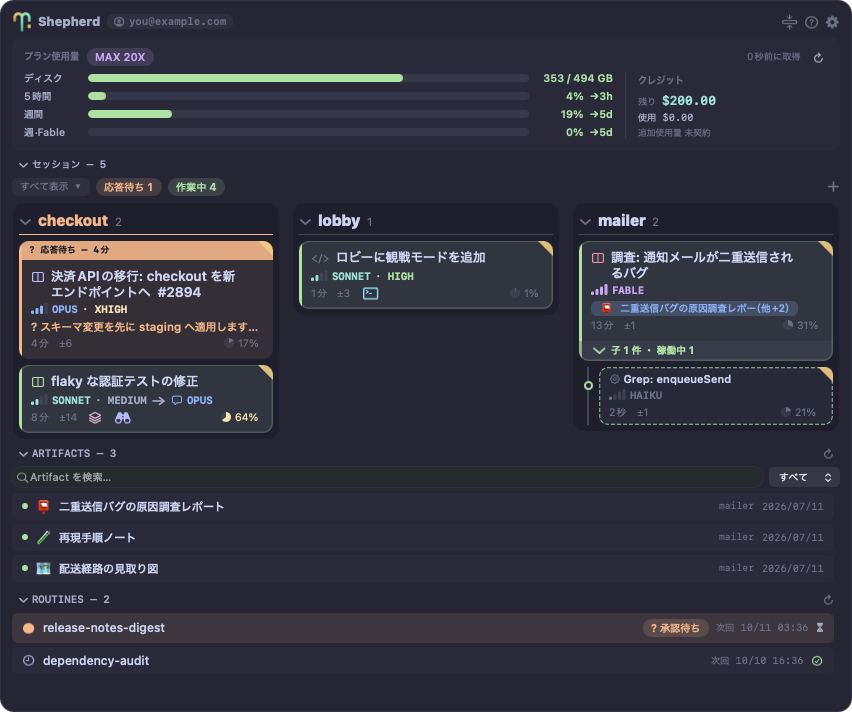
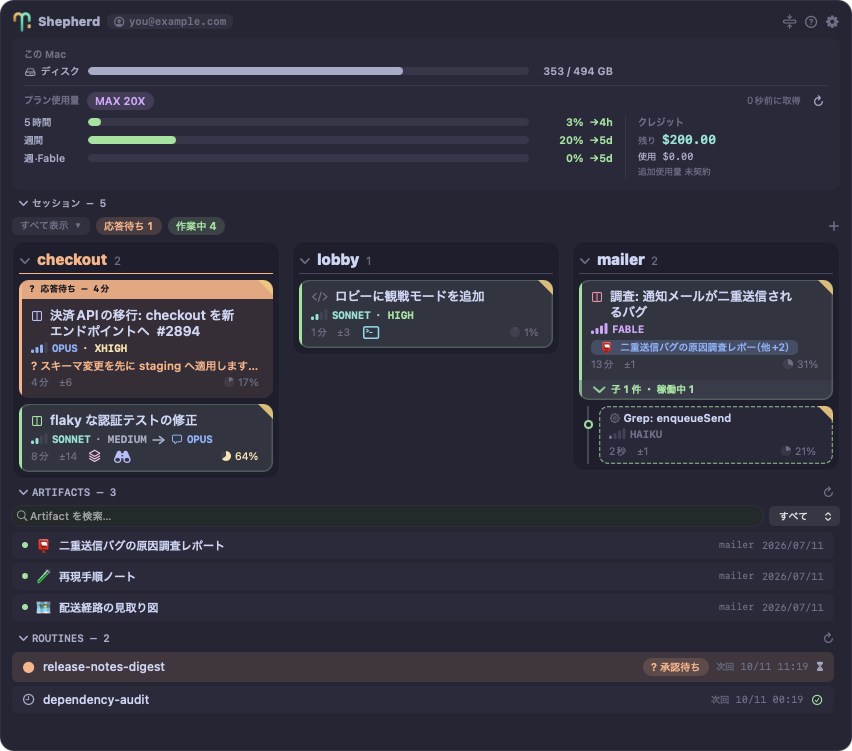
feat: split the dashboard into "This Mac" and plan-usage sections
The disk gauge sat in the same column as the plan limits and read as
one of them. The dashboard now opens with a "This Mac" section (heading
+ the disk row with an internaldrive glyph), a hairline, then the plan
usage section, which alone owns the fetched-at stamp, the refresh
button, stale dimming and the credit column. The disk bar is a quiet
neutral (subtext) below 80% instead of plan green, peach from 80%, red
from 90%. Its track aligns with the plan gauges' column at a high but
non-required priority, so the amount never truncates in the 1-column
preset. The minimized strip keeps the disk row (from 80%) and the
hairline but drops the heading. Docs screenshots re-shot.

Claude-Session: https://claude.ai/code/session_016EzgjT4c9mNvakjaotPHPf

diff --git a/docs/board.html b/docs/board.html
@@ -89,14 +89,14 @@
     <h2 lang="en">The header</h2>
     <h2 lang="ja">ヘッダー</h2>
     <ul lang="en">
-      <li><strong>Plan usage dashboard</strong> — your Claude plan's 5-hour and weekly windows (plus a model-scoped weekly bar when your plan has one), with time until each resets. A plan chip (e.g. <span class="chip-demo" style="background:rgba(203,166,247,.16);color:var(--mauve)">MAX 20X</span>) names the subscription, and a permanent credits column shows extra-usage spend — used / monthly limit / computed remainder (— until you enable extra usage). The fetched-at stamp and the ↻ button on the right refresh everything on demand; when a refresh fails the last good numbers stay up, dimmed, instead of vanishing. A <strong>disk</strong> bar above the usage windows shows the startup disk as “used / total” (e.g. <code>351 / 494 GB</code> — decimal units like Finder, TB above 1 TB). The bar fills by used % — computed from the same “available” figure Finder reports, purgeable space included — green, peach from 80%, red from 90%; hover for the % and free space. It's read locally, so it stays up even when the usage fetch fails, and the minimized strip shows it only from 80% up. When a weekly window passes 90% it's mirrored as an alert chip (threshold <a href="configuration.html">configurable</a>). While extra-usage credits are actively burning — plan limits exhausted and the spend counter moving — the credits zone glows amber with a "burning" mark, and an amber "on credits" chip appears in the header row.</li>
+      <li><strong>Plan usage dashboard</strong> — your Claude plan's 5-hour and weekly windows (plus a model-scoped weekly bar when your plan has one), with time until each resets. A plan chip (e.g. <span class="chip-demo" style="background:rgba(203,166,247,.16);color:var(--mauve)">MAX 20X</span>) names the subscription, and a permanent credits column shows extra-usage spend — used / monthly limit / computed remainder (— until you enable extra usage). The fetched-at stamp and the ↻ button on the right refresh everything on demand; when a refresh fails the last good numbers stay up, dimmed, instead of vanishing. Above the plan section, a separate <strong>This Mac</strong> section (split off by a hairline) holds the startup disk as “used / total” (e.g. <code>353 / 494 GB</code> — decimal units like Finder, TB above 1 TB) behind a drive icon. Its bar fills by used % — computed from the same “available” figure Finder reports, purgeable space included — in a quiet neutral, peach from 80%, red from 90%; hover for the % and free space. It's read locally, so it is never dimmed and stays up even when the usage fetch fails (the fetched-at stamp, ↻ and dimming belong to the plan section). The minimized strip shows it only from 80% up, without the section heading. When a weekly window passes 90% it's mirrored as an alert chip (threshold <a href="configuration.html">configurable</a>). While extra-usage credits are actively burning — plan limits exhausted and the spend counter moving — the credits zone glows amber with a "burning" mark, and an amber "on credits" chip appears in the header row.</li>
       <li><strong>Range filter</strong> — show everything, or only sessions active in the last 24 hours.</li>
       <li><strong>Count pills</strong> — <span class="chip-demo" style="background:rgba(250,179,135,.16);color:var(--peach)">needs input N</span> <span class="chip-demo" style="background:rgba(166,227,161,.16);color:var(--green)">working N</span> — the board's one-line summary.</li>
       <li><strong>Controls</strong> — minimize (the HUD collapses to a small strip), ＋ new session, ⚙ settings, ? legend.</li>
       <li><strong>Update badge</strong> — once a day Shepherd compares itself against the latest GitHub release; a teal <span class="chip-demo" style="background:rgba(148,226,213,.16);color:var(--teal)">update vX.Y.Z</span> chip appears when a newer one exists. Click it to open the release page, then update with <code>brew upgrade --cask shepherd</code>.</li>
     </ul>
     <ul lang="ja">
-      <li><strong>プラン使用量ダッシュボード</strong> — Claude プランの5時間枠と週間枠（プランにモデル別の週間バーがある場合はそれも）を、それぞれのリセットまでの時間とともに表示します。プランチップ（例: <span class="chip-demo" style="background:rgba(203,166,247,.16);color:var(--mauve)">MAX 20X</span>）が契約プランを示し、右のクレジット欄には追加使用量の 使用額 / 月間上限 / 残り が常設表示されます（追加使用量が無効の間は —）。右端の取得時刻と ↻ ボタンで任意のタイミングで全体を再取得でき、取得に失敗しても直前の値が薄くなって残ります（消えません）。使用量バーの上の<strong>ディスク</strong>バーは起動ディスクを「使用量 / 総量」で表示します（例: <code>351 / 494 GB</code>。Finder と同じ10進単位で、1 TB を超えると TB 表記）。バーは使用率で塗られ（Finder が表示する「空き」＝パージ可能領域を含む値で計算）、緑・80%から peach・90%から赤。ホバーで使用率と空き容量が出ます。ローカルで読むので使用量の取得が失敗しても表示され、最小化ストリップには80%以上のときだけ出ます。週間枠が90%を超えるとアラートチップにも反映されます（閾値は<a href="configuration.html">設定可能</a>）。プラン上限を使い切って追加クレジットが実際に消費されている間は、クレジット欄が琥珀色に明滅して「消費中」マークが付き、ヘッダー行にも琥珀の「クレジット消費中」チップが出ます。</li>
+      <li><strong>プラン使用量ダッシュボード</strong> — Claude プランの5時間枠と週間枠（プランにモデル別の週間バーがある場合はそれも）を、それぞれのリセットまでの時間とともに表示します。プランチップ（例: <span class="chip-demo" style="background:rgba(203,166,247,.16);color:var(--mauve)">MAX 20X</span>）が契約プランを示し、右のクレジット欄には追加使用量の 使用額 / 月間上限 / 残り が常設表示されます（追加使用量が無効の間は —）。右端の取得時刻と ↻ ボタンで任意のタイミングで全体を再取得でき、取得に失敗しても直前の値が薄くなって残ります（消えません）。プラン区画の上には細い区切り線で分けた別区画<strong>「この Mac」</strong>があり、ドライブのアイコン付きで起動ディスクを「使用量 / 総量」で表示します（例: <code>353 / 494 GB</code>。Finder と同じ10進単位で、1 TB を超えると TB 表記）。バーは使用率で塗られ（Finder が表示する「空き」＝パージ可能領域を含む値で計算）、平常時は控えめな中立色・80%から peach・90%から赤。ホバーで使用率と空き容量が出ます。ローカルで読むので減光されず、使用量の取得が失敗しても表示されます（取得時刻・↻・減光はプラン区画だけのもの）。最小化ストリップには80%以上のときだけ、区画見出しなしで出ます。週間枠が90%を超えるとアラートチップにも反映されます（閾値は<a href="configuration.html">設定可能</a>）。プラン上限を使い切って追加クレジットが実際に消費されている間は、クレジット欄が琥珀色に明滅して「消費中」マークが付き、ヘッダー行にも琥珀の「クレジット消費中」チップが出ます。</li>
       <li><strong>表示範囲フィルタ</strong> — すべて表示するか、直近24時間にアクティブだったセッションのみ表示するかを切り替えます。</li>
       <li><strong>件数ピル</strong> — <span class="chip-demo" style="background:rgba(250,179,135,.16);color:var(--peach)">応答待ち N</span> <span class="chip-demo" style="background:rgba(166,227,161,.16);color:var(--green)">作業中 N</span> — 盤面の状態を1行で要約します。</li>
       <li><strong>コントロール</strong> — 最小化（HUD が小さなストリップに折りたたまれます）、＋ 新規セッション、⚙ 設定、? 凡例。</li>

diff --git a/Sources/AppDelegate+Columns.swift b/Sources/AppDelegate+Columns.swift
@@ -670,7 +670,8 @@ extension AppDelegate {
 
     // One usage gauge row: label · track with a filled portion · percent + reset countdown.
     // Colored by the API's severity, falling back to the used-percent (green→peach→red).
-    func usageGauge(_ w: UsageWindow, color override: NSColor? = nil, text: String? = nil) -> NSView {
+    func usageGauge(_ w: UsageWindow, color override: NSColor? = nil, text: String? = nil,
+                    symbol: String? = nil) -> NSView {
         let color: NSColor = override ?? {
             switch w.severity {
             case "critical", "severe": return Cat.red
@@ -681,7 +682,8 @@ extension AppDelegate {
         let row = NSStackView()
         row.orientation = .horizontal; row.spacing = 6; row.alignment = .centerY
 
-        let name = makeLabel(w.label, size: 10.5, weight: .medium, color: Cat.subtext)
+        let name = symbol.map { symbolLabel($0, w.label, size: 10.5, weight: .medium, color: Cat.subtext) }
+            ?? makeLabel(w.label, size: 10.5, weight: .medium, color: Cat.subtext)
         name.setContentHuggingPriority(.required, for: .horizontal)
         name.widthAnchor.constraint(equalToConstant: 58).isActive = true
 
@@ -859,6 +861,45 @@ extension AppDelegate {
 
         let stale = usageError != nil && !(lastUsage?.windows.isEmpty ?? true)
 
+        // Two sections (2026-10-10, user decision — the disk sat among the plan limits and read as
+        // one of them): "This Mac" (the startup disk) on top, a hairline, then "plan usage" with
+        // its own fetched-at stamp, ↻, stale dimming and the credit column. The disk row is local
+        // and never dimmed. Text is the amount, "used / total" (diskUsageText; % in the hover);
+        // the bar fills by used % in diskGaugeColor's quiet neutral / peach / red. In the
+        // minimized strip only from 80% (the strip keeps what needs attention) and WITHOUT the
+        // "This Mac" heading — the drive glyph + label name the row, and a heading would cost the
+        // strip a second line for one gauge; the hairline still parts it from the plan gauges.
+        var diskRow: NSView?
+        if let d = diskSpace, let used = diskUsedFraction(total: d.total, available: d.available),
+           !compact || used >= 0.80 {
+            let gb = { (b: Int64) in ByteCountFormatter.string(fromByteCount: b, countStyle: .file) }
+            let row = usageGauge(UsageWindow(key: "disk", label: L("ディスク", "disk"), percent: used * 100,
+                                             resetsAt: nil, severity: "normal"),
+                                 color: diskGaugeColor(used),
+                                 text: diskUsageText(used: d.total - d.available, total: d.total),
+                                 symbol: "internaldrive")
+            let pct = Int((used * 100).rounded())
+            diskRow = withHoverTip(row, L(
+                "起動ディスク: 使用 \(gb(d.total - d.available)) / 全 \(gb(d.total))（\(pct)%）・空き \(gb(d.available))",
+                "startup disk: \(gb(d.total - d.available)) used of \(gb(d.total)) (\(pct)%) · \(gb(d.available)) free"))
+        }
+        if let diskRow {
+            if !compact {
+                let macTitle = makeLabel(L("この Mac", "This Mac"), size: 10, weight: .bold, color: Cat.overlay)
+                box.addArrangedSubview(macTitle)
+                box.setCustomSpacing(4, after: macTitle)
+            }
+            box.addArrangedSubview(diskRow)
+            let rule = NSView()
+            rule.wantsLayer = true
+            rule.layer?.backgroundColor = Cat.surface1.withAlphaComponent(0.55).cgColor
+            rule.translatesAutoresizingMaskIntoConstraints = false
+            rule.heightAnchor.constraint(equalToConstant: 1).isActive = true
+            box.addArrangedSubview(rule)
+            rule.widthAnchor.constraint(equalToConstant: innerWidth).isActive = true
+            box.setCustomSpacing(7, after: diskRow)
+        }
+
         let head = NSStackView()
         head.orientation = .horizontal; head.spacing = 7; head.alignment = .centerY
         let title = makeLabel(L("プラン使用量", "plan usage"), size: 10, weight: .bold, color: Cat.overlay)
@@ -909,32 +950,8 @@ extension AppDelegate {
         box.addArrangedSubview(head)
         head.widthAnchor.constraint(equalToConstant: innerWidth).isActive = true
 
-        // Startup disk (2026-10-10): the FIRST gauge row (user decision), in the same vocabulary —
-        // the bar is filled by used % and colored by diskGaugeColor, but its text is the amount,
-        // "used / total" (diskUsageText; the % is in the hover). Built OUTSIDE the usage branch
-        // and the stale dimming — it's local, so it shows (undimmed) whether or not the OAuth
-        // fetch worked. In the minimized strip only once it's worth a line (≥80%, peach): the
-        // strip keeps the numbers that need attention, and a healthy disk doesn't.
-        var diskRow: NSView?
-        if let d = diskSpace, let used = diskUsedFraction(total: d.total, available: d.available),
-           !compact || used >= 0.80 {
-            let gb = { (b: Int64) in ByteCountFormatter.string(fromByteCount: b, countStyle: .file) }
-            let row = usageGauge(UsageWindow(key: "disk", label: L("ディスク", "disk"), percent: used * 100,
-                                             resetsAt: nil, severity: "normal"),
-                                 color: diskGaugeColor(used),
-                                 text: diskUsageText(used: d.total - d.available, total: d.total))
-            let pct = Int((used * 100).rounded())
-            diskRow = withHoverTip(row, L(
-                "起動ディスク: 使用 \(gb(d.total - d.available)) / 全 \(gb(d.total))（\(pct)%）・空き \(gb(d.available))",
-                "startup disk: \(gb(d.total - d.available)) used of \(gb(d.total)) (\(pct)%) · \(gb(d.available)) free"))
-        }
-
         let gauges = NSStackView()
         gauges.orientation = .vertical; gauges.spacing = 5; gauges.alignment = .leading
-        if let diskRow {
-            gauges.addArrangedSubview(diskRow)
-            diskRow.widthAnchor.constraint(equalTo: gauges.widthAnchor).isActive = true
-        }
         let usage = lastUsage.flatMap { $0.windows.isEmpty ? nil : $0 }
         if let usage {
             // Order: session, weekly, then any model-scoped windows.
@@ -971,6 +988,16 @@ extension AppDelegate {
         }
         box.addArrangedSubview(content)
         content.widthAnchor.constraint(equalToConstant: innerWidth).isActive = true
+        // The disk row spans exactly the plan gauges' column, so every track ends at the same x
+        // whether or not the credit column is beside the plan gauges. Below required: in the
+        // 1-column preset that column is too narrow for "353 / 494 GB", and the amount must not
+        // truncate — the row then simply runs wider (its own section, so nothing sits beside it).
+        if let diskRow {
+            let align = diskRow.widthAnchor.constraint(equalTo: gauges.widthAnchor)
+            align.priority = .defaultHigh
+            align.isActive = true
+            diskRow.widthAnchor.constraint(lessThanOrEqualToConstant: innerWidth).isActive = true
+        }
         box.widthAnchor.constraint(equalToConstant: width - 20).isActive = true
 
         // Wrap in a faintly tinted card to set it apart from the agent rows.

diff --git a/Sources/Models.swift b/Sources/Models.swift
@@ -116,10 +116,12 @@ func diskUsedFraction(total: Int64, available: Int64) -> Double? {
     return min(1, max(0, Double(total - available) / Double(total)))
 }
 
-// Disk gauge color: the plan-usage gauges' palette, but at 80 / 90 rather than their 60 / 85 —
-// a disk sits at 60–75% for months, and a gauge that is always peach stops meaning anything.
+// Disk gauge color. Normally a quiet neutral (subtext — still clearly brighter than the track),
+// NOT the plan gauges' green: the disk sits in its own "This Mac" section and must not read as
+// one more plan limit (user decision, 2026-10-10). Peach from 80%, red from 90% — not the plan
+// gauges' 60 / 85: a disk sits at 60–75% for months, and a gauge always in warning means nothing.
 func diskGaugeColor(_ fraction: Double) -> NSColor {
-    fraction >= 0.90 ? Cat.red : fraction >= 0.80 ? Cat.peach : Cat.green
+    fraction >= 0.90 ? Cat.red : fraction >= 0.80 ? Cat.peach : Cat.subtext
 }
 
 // The leading symbol for a title that is a mid-call tool line ("⚙ <tool>: <what>" / "⚙ <tool>",

diff --git a/Tests/ModelsTests.swift b/Tests/ModelsTests.swift
@@ -87,7 +87,7 @@ func runModelsTests() {
         expectNil(diskUsedFraction(total: 0, available: 0), "no capacity → nil")
         expectEq(diskUsedFraction(total: 100, available: 150), 0, "available > total clamps to 0")
         expectEq(diskUsedFraction(total: 100, available: -5), 1, "negative available clamps to 1")
-        expect(diskGaugeColor(0.79) == Cat.green, "<80% green")
+        expect(diskGaugeColor(0.79) == Cat.subtext, "<80% a quiet neutral, not the plan gauges' green")
         expect(diskGaugeColor(0.80) == Cat.peach, "80% peach")
         expect(diskGaugeColor(0.90) == Cat.red, "90% red")
     }

diff --git a/CLAUDE.md b/CLAUDE.md
@@ -38,7 +38,7 @@ Shepherd はこのマシンで動く Claude Code セッション（zellij ペイ
 - **カードのクリック＝そのセッションを開く**（`openRow`）: zellij 行は `zellij attach`＋ペインフォーカス、background worker は **Ghostty 新窓で `claude attach <short-id>`**（終了記録は確認シートを挟んで再開）。開けない行（素のターミナル）は toolTip で説明するだけ。
 - **カード操作は右クリックメニュー**（`wireCardActions` のコンテキストメニュー）: 回答する（blocked時は先頭）／zellij・attach で開く／遠隔操作／範囲を撮影して送る／閉じる 等。旧ホバートレイは廃止済みで `RowView.tray` はどこからも populate されない（死にコード。触るなら削除してよい）。
 - **ファミリーストリップ**（親カード最下部20px）: `⌄/› 子 N 件・稼働中 M`。折りたたみ中は子のステータスドット＋要注目の子の一言（blocked の `? 質問` 優先）も同居し、ホバーで覗き見ポップオーバー（`showFamilyPeek`）。覗き見は畳んでいても展開していてもストリップのホバーで出る。末尾には**終了した teammate の完了報告**（idle_notification の `result`・親行の `subagents` から `recentTeammateReports` で拾う — 終了した teammate はカードを持たないため）を「完了報告」として並べる: 報告から `teammateReportWindow`（30分）以内のもの・**報告自身の通知時刻**（`SubagentRecord.resultAt`。jsonl mtime ではない）の新しい順・最大5件。子カードが1枚も無くても、この窓内の報告があればストリップを出して「✓ 完了報告 N 件」と表示する（クリックは無効・ホバーで覗き見のみ）。子がいるときのストリップの見た目は従来どおり。クリックはストリップ全面でトグル — `RowView.hitTest` は NSButton 系しかクリックを通さないので**透明 `HoverButton` を全面に重ねる**構成。
-- **ダッシュボードのディスクゲージ**: ゲージ群の**先頭行**（使用量ゲージより上・compact でも先頭）に「ディスク」— 起動ディスク（`/`）。**テキストは「使用量 / 総量」**（純関数 `diskUsageText`: 10進単位・総量 1 TB 未満は整数 GB「351 / 494 GB」、以上は小数1桁 TB「1.2 / 2.0 TB」。`usageGauge(_:color:text:)` の text で差し替え）で、%はホバー側。バーの塗りと色は使用率。値は `URL(fileURLWithPath: "/").resourceValues` の `volumeTotalCapacity`（コンテナ容量）と `volumeAvailableCapacityForImportantUsage`（Finder の「空き」＝パージ可能領域込み）から純関数 `diskUsedFraction` で計算（`df` の Data 行の % は分母が Data ボリュームの used+avail で他の APFS ボリュームを含まないぶん低く出る）。単位は Finder と同じ10進 GB（`ByteCountFormatter` `.file`）。取得は refresh() の background hop で毎回（1回約8ms・ガード不要）、`diskSpace`（main.swift）に保持し失敗時は前回値。描画は `usageGauge(_:color:)` の見た目を流用し色だけ `diskGaugeColor`（80%未満緑 / 80% peach / 90% 赤 — 使用量ゲージの 60/85 だと常時 peach になり意味を失うため）。**usage 分岐と stale 減光の外**に置くので OAuth 取得が失敗・未取得でも減光せず出る（stale 減光は使用量ゲージ行とクレジット列に個別に掛ける）。ホバーで「使用 X / 全 Y（N%）・空き Z」の係留ポップオーバー。
+- **ダッシュボードのディスクゲージ**: ダッシュボードは**2区画**（ユーザー決定 2026-10-10 — ディスクがプラン制限と同じ並びにあり同じ概念に見えたため）: 先頭の「この Mac」区画（見出し＋ディスク1行）→ 細い区切り線 → 従来の「プラン使用量」区画（見出し・取得スタンプ・↻・stale 減光・クレジット列はこの区画だけに属する）。ディスク行は `internaldrive` アイコン付きで、トラック幅はプラン側ゲージ列に揃える（`defaultHigh` 優先度 — 1列プリセットでは列が細すぎるので文字を優先して行が広がる）。compact（最小化）では見出しを省き、区切り線だけ残す（1ゲージのために見出し行を足さない・アイコン＋ラベルで自己説明的）。起動ディスク（`/`）。**テキストは「使用量 / 総量」**（純関数 `diskUsageText`: 10進単位・総量 1 TB 未満は整数 GB「351 / 494 GB」、以上は小数1桁 TB「1.2 / 2.0 TB」。`usageGauge(_:color:text:)` の text で差し替え）で、%はホバー側。バーの塗りと色は使用率。値は `URL(fileURLWithPath: "/").resourceValues` の `volumeTotalCapacity`（コンテナ容量）と `volumeAvailableCapacityForImportantUsage`（Finder の「空き」＝パージ可能領域込み）から純関数 `diskUsedFraction` で計算（`df` の Data 行の % は分母が Data ボリュームの used+avail で他の APFS ボリュームを含まないぶん低く出る）。単位は Finder と同じ10進 GB（`ByteCountFormatter` `.file`）。取得は refresh() の background hop で毎回（1回約8ms・ガード不要）、`diskSpace`（main.swift）に保持し失敗時は前回値。描画は `usageGauge(_:color:text:symbol:)` の見た目を流用し色だけ `diskGaugeColor`（80%未満は控えめな中立色 `Cat.subtext` — プラン系の緑だと「プラン制限の一つ」に見えるため / 80% peach / 90% 赤 — 使用量ゲージの 60/85 だと常時 peach になり意味を失うため）。**usage 分岐と stale 減光の外**に置くので OAuth 取得が失敗・未取得でも減光せず出る（stale 減光は使用量ゲージ行とクレジット列に個別に掛ける）。ホバーで「使用 X / 全 Y（N%）・空き Z」の係留ポップオーバー。
 - **HUDサイズモード**: ⚙メニュー「HUD サイズ」で `auto`（内容追従）/ 小=1列 / 中=2列 / 大=3列（固定サイズ・高さは 520/640/760 をディスプレイ高でクランプ）/ `fullDisplay`（載っているディスプレイの visibleFrame 全面）を切り替え（`hudSizeMode` に永続化）。`stack` は常に `DragScrollView`（縦スクロールのみ・documentView は `FlippedView` で上詰め・幅は clip 幅に固定＝横スクロール構造的に不可）内に住み、auto ではパネルが内容にフィットするためスクロールは発生しない。固定系の列数は `effectiveColumns`（プリセット列数 / fullDisplay は `hudFitColumns` で画面幅から算出）が単一の真実で、`columnsView`・`applyManualDrop`・`boardWidth` すべてがこれを参照。ヘッダー/ダッシュボード/ヒント行の幅は `boardSpanWidth`（固定系はパネル内寸）。最小化は固定サイズより優先（小さいストリップに縮む）。**最小化ストリップの中身は「ブランドバー＋compact ダッシュボード＋ステータス行」**: ダッシュボードは `usageDashboardView(width:compact:)` の compact でゲージのみ（クレジット列と仕切りを省略・ディスクゲージは80%以上のときだけ — ゲージは縦積みなので幅ではなく高さ1行のコストで、健全なディスクは注意を要する数字ではないため・幅は必ずストリップ内寸 `contentWidth-24` — wide 幅のまま渡すとクリップされてゲージが見切れる）、ステータス行（件数ピル＋quota/クレジットチップ）は最小化でも返す（24hフィルタチップと＋だけ省略）。純ロジック（`hudPreset`/`hudPanelWidth`/`hudFitColumns`）は Models.swift・テスト済み。
 - **コンテキスト%**: メタ行右端の小さなパイ＋%（60%未満はグレーでカードに溶け、60%で黄・85%で赤）。パイへのホバーで残量ヒント（`HoverView`）。
 - **盤面3セクション + Artifact シェルフ**（`Sources/AppDelegate+Shelf.swift` / `Sources/ArtifactIndex.swift`・2026-07-17 採用）: 盤面は「⌄ セッション — N」「⌄ ARTIFACTS — N」「⌄ ROUTINES — N」の折りたたみバー3本に分割（`sessionsSectionBar` / `artifactsSectionViews` / `routinesSectionViews`・状態は defaults `sessionsCollapsed` / `artifactsBarCollapsed` / `routinesBarCollapsed`。バー自体を作る `sectionRow` は3本の共通部品）。セッションバーは畳むと状態サマリ（応答待ち/作業中ピル＋A9クォータ警告チップ）がバー上に移る。ARTIFACTS 枠がシェルフの唯一の面（初版のヘッダー棚ボタン＋ポップオーバーはユーザー判断で撤去）: 検索フィールド＋repo 簡易フィルター（ポップアップ: すべて/各repo/帰属不明）＋フラット一覧（repo タグ・更新日 yyyy/MM/dd・ピン留め=右クリック「上位に固定」・defaults `artifactPins`・並びは純関数 `shelfListOrder` テスト済み・行クリック=ブラウザで開く・右クリック=開く/URLコピー/固定）。データは二源マージの永続インデックス — 源A=frames API（下記データ源）・源B=transcript 増分走査（`artifactPublishesFromSlice` の tool_use/tool_result ペアリング。**ペア持ち越し carry を scan state に永続化** — publish が走査境界を跨ぐとペアが組めず取りこぼすため）。マージ規則: title/updatedAt/softDeleted は API 勝ち、favicon/repoName は transcript 勝ち（favicon は API が穴埋め）。インデックスは `~/Library/Application Support/Shepherd/artifact-index.json`（追記型・softDeleted は減光表示で隠さない）。**検索は in-place 再描画**（`renderArtifactList` — rebuild すると入力中のフィールドが作り直されてフォーカスが落ちるため）で、rebuild ガードは「最終キー入力から2秒」の時間式（`lastArtifactTypeAt` — currentEditor ベースはフォーカスが残る限り盤面更新が無期限に止まる）。取得はセクションが開いている間だけ refresh() 便乗（API 15分・走査5分ガード・↻で強制・stale-while-error）。fixture モード（`SHEPHERD_PROJECTS_DIR` あり）では API を叩かない（実データの顧客名が docs スクショに写る事故防止）＋インデックスも scratch へ。（「更新セッション起動」導線も実装後にユーザー判断で撤去 — claude を立ち上げて URL を貼るだけの導線に価値がなかった）**リデプロイパルス**: 増分スキャンの delta で既知 URL への再 publish を検知（`artifactPulseAt`）→カードの Artifact バッジが数秒琥珀に点滅。

diff --git a/README.md b/README.md
@@ -73,7 +73,7 @@ Shepherd installs nothing into Claude Code. It reads what Claude Code already wr
 - `claude agents --json --all` — the list of sessions, including finished background records.
 - the cc-daemon control socket — for background workers: their state, what they are doing this turn, and what a blocked one needs to be told (it also takes your reply).
 - the session's transcript — model, context usage, deliverable links, its AI-generated title, subagents, API errors, an in-flight Bash call, and live Monitor watches.
-- the `api.anthropic.com/api/oauth/usage` endpoint, read with Claude Code's own OAuth token — the plan-usage dashboard: 5-hour / weekly windows, extra-usage credit spend, and the plan-tier chip (via `/api/oauth/profile`). A disk bar above the usage windows shows the startup disk as "used / total" (e.g. `351 / 494 GB`, decimal units like Finder, switching to TB above 1 TB; the bar fills by used % — Finder's "available" figure, purgeable included — peach from 80%, red from 90%; hover for the % and free space) — read locally, so it shows even when the usage fetch fails. Refresh on demand with the dashboard's ↻ button; a failed fetch keeps the last good numbers up, dimmed. While extra-usage credits are actively burning (the spend counter grew between snapshots, or a limit window is exhausted with extra usage enabled) the credits zone glows amber and an amber "on credits" chip appears in the header. Minimizing the HUD keeps the usage gauges and the count pills — only the credits column is dropped from the strip, and the disk bar joins it only from 80% up.
+- the `api.anthropic.com/api/oauth/usage` endpoint, read with Claude Code's own OAuth token — the plan-usage dashboard: 5-hour / weekly windows, extra-usage credit spend, and the plan-tier chip (via `/api/oauth/profile`). Above it, a separate **This Mac** section (divided by a hairline) holds a drive-icon disk bar showing the startup disk as "used / total" (e.g. `353 / 494 GB`, decimal units like Finder, switching to TB above 1 TB; the bar fills by used % — Finder's "available" figure, purgeable included — in a quiet neutral, peach from 80%, red from 90%; hover for the % and free space). It's read locally, so it is never dimmed and shows even when the usage fetch fails; the fetched-at stamp, ↻ and stale dimming belong to the plan section only. Refresh on demand with the dashboard's ↻ button; a failed fetch keeps the last good numbers up, dimmed. While extra-usage credits are actively burning (the spend counter grew between snapshots, or a limit window is exhausted with extra usage enabled) the credits zone glows amber and an amber "on credits" chip appears in the header. Minimizing the HUD keeps the usage gauges and the count pills — only the credits column is dropped from the strip, and the disk bar joins it only from 80% up.
 - the `api.anthropic.com/v1/code/triggers` and `/v1/code/sessions` endpoints, read with the same token — your routines and the state of their runs, which is the only way to see a cloud agent from here: a scheduled routine has no process, transcript or daemon job on this machine. Fetched every two minutes; a failed fetch keeps the last list, and the section simply says so.
 - `ps -wwEp <pid>` — the session's environment: which zellij session and pane it lives in, whether it runs in a VS Code-family integrated terminal (`TERM_PROGRAM` / `__CFBundleIdentifier` — the latter is also the exact `open -b` target, so forks like Cursor need no lookup table), and the `SHEPHERD_PARENT_SESSION_ID` a parent exported when it spawned the session, which is how child sessions nest under their parent. (This variable is Shepherd's own convention — export it yourself when one session launches another.)
 
